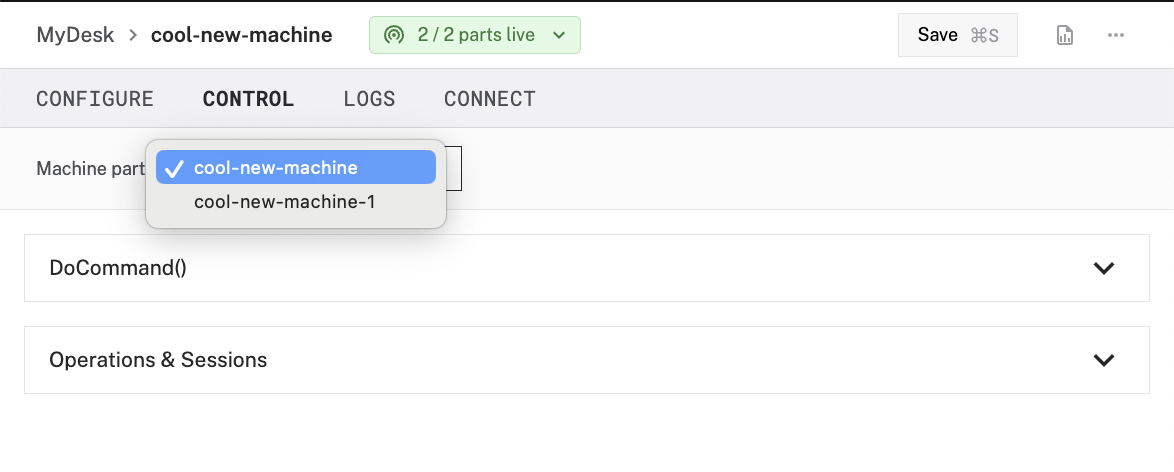
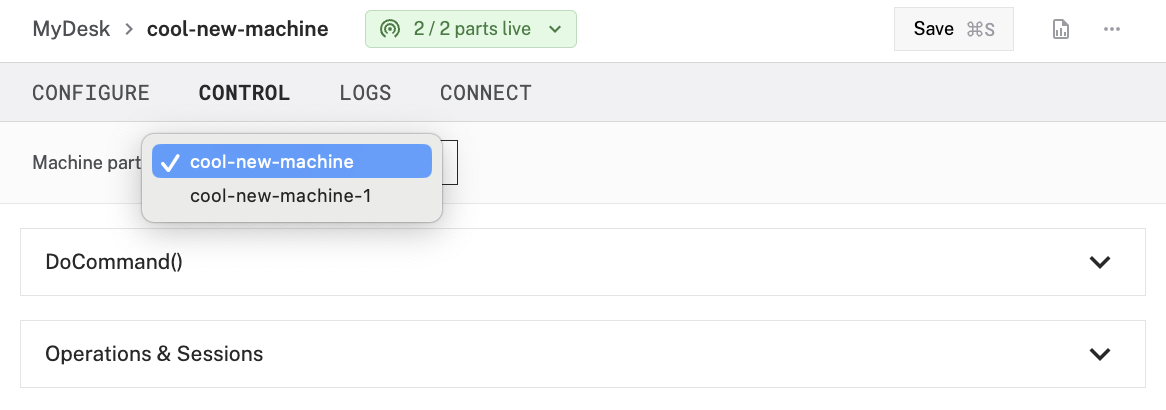
duplicate photo tentatively

diff --git a/docs/fleet/control.md b/docs/fleet/control.md
@@ -25,7 +25,7 @@ For local communication between [parts](/build/configure/parts/#machine-parts) V
 
 You can also switch between different machine parts and control the selected machine part directly from the **CONTROL** tab.
 
-{{< imgproc src="/fleet/app-usage/control-machine-parts.png" alt="A machine's control tab populated with a main machine part and its subpart." resize="650x" class="aligncenter" >}}
+{{< imgproc src="/fleet/app-usage/control-machine-part-dropdown.png" alt="The expanded Machine part dropdown menu with the main part selected on the Control tab." resize="650x" class="aligncenter" >}}
 
 For more information on configuring and controlling machine parts, see [Machine Architecture](/build/configure/parts/#machine-parts).
 
